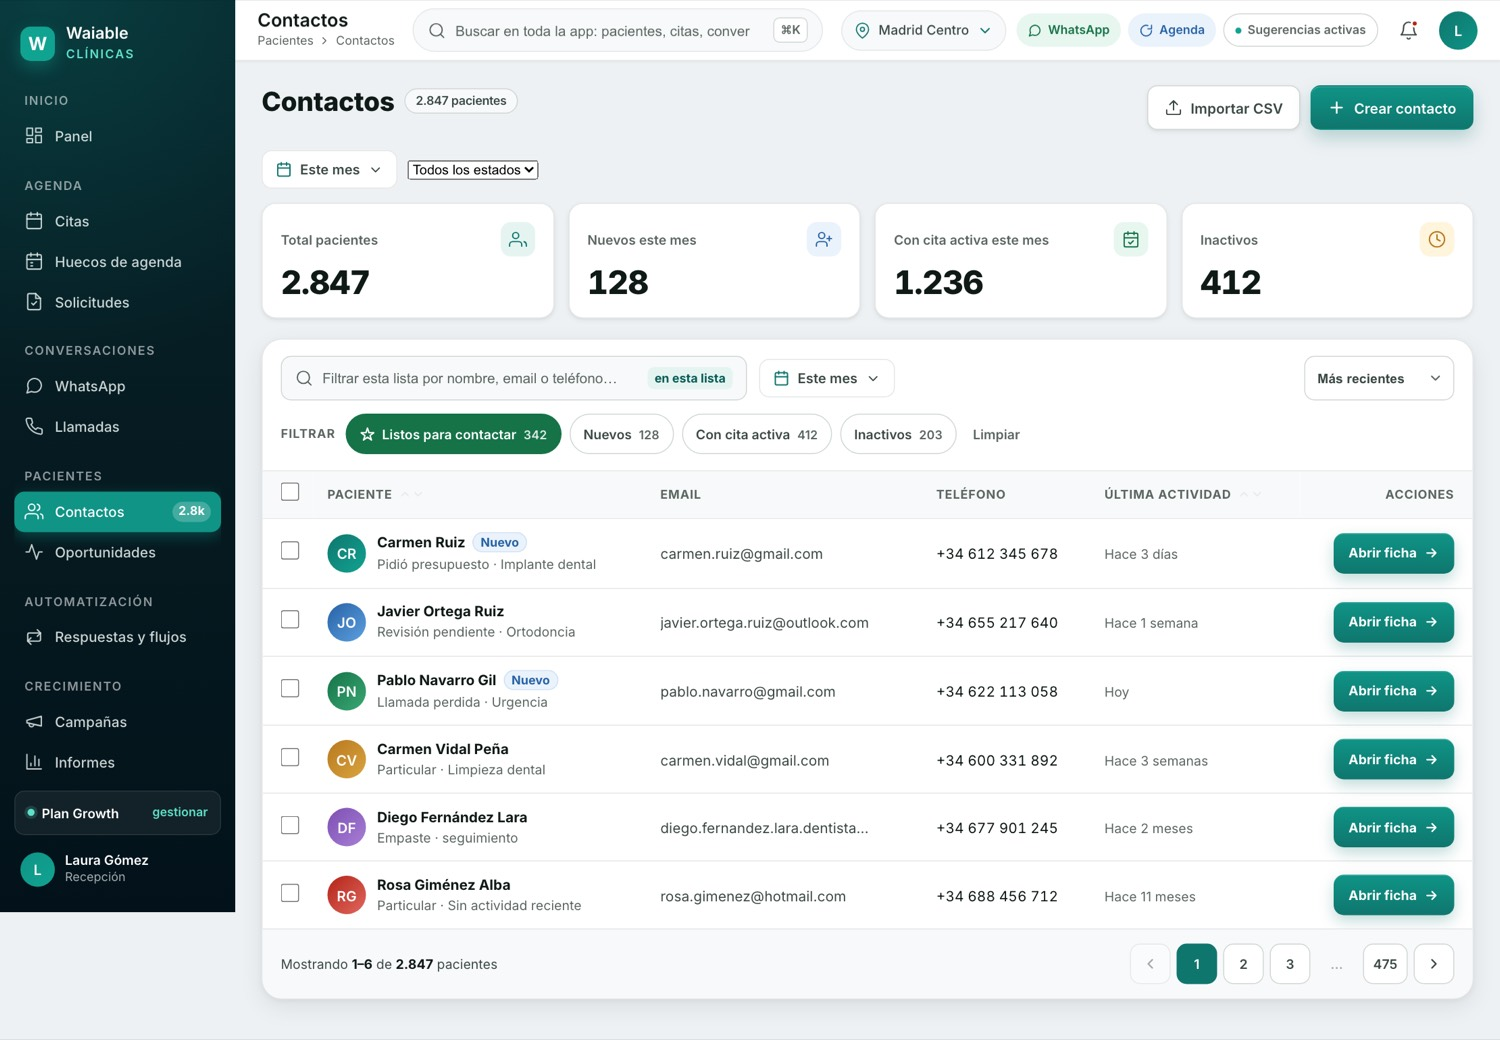
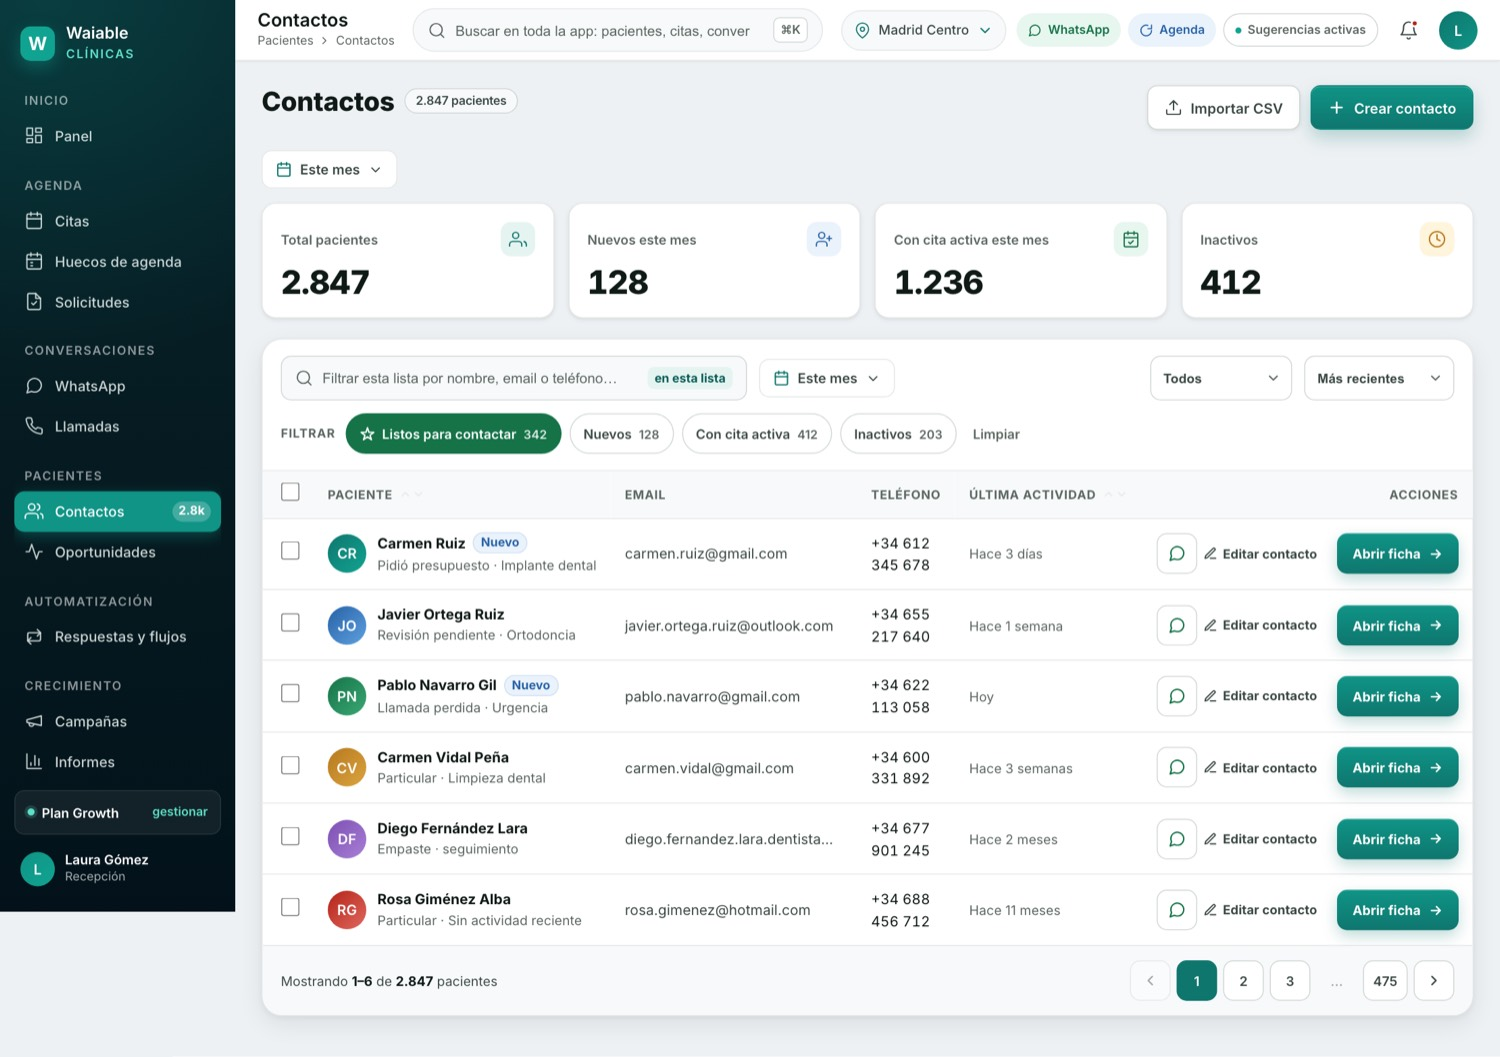
Contactos: mover el filtro de estado de la barra superior a la tabla (toolbar) con 'Todos' por defecto; en Acciones de cada fila anadir boton 'Escribir por WhatsApp' y 'Editar contacto' a la izquierda de 'Abrir ficha'

diff --git a/crm/contactos.html b/crm/contactos.html
@@ -468,6 +468,9 @@ tbody tr.sel{background:var(--primary-soft)}
 .r-edit svg{width:14px;height:14px}
 .r-edit:hover{color:var(--primary)}
 
+
+.r-btn.wa{color:var(--ok)}
+.r-btn.wa:hover{background:#e6f3ec;border-color:var(--ok);color:var(--ok)}
 </style>
 </head>
 <body>
@@ -651,7 +654,6 @@ tbody tr.sel{background:var(--primary-soft)}
       <!-- SUMMARY -->
       <section class="cfilters" aria-label="Filtros de pacientes">
         <div class="period-pick"><button class="period-btn" type="button" onclick="togglePeriod(this)" aria-label="Filtrar por fecha"><svg viewBox="0 0 24 24" fill="none" stroke="currentColor" stroke-width="2" stroke-linecap="round" stroke-linejoin="round"><rect x="3" y="4" width="18" height="18" rx="2"/><path d="M16 2v4M8 2v4M3 10h18"/></svg><span class="period-label">Este mes</span><svg viewBox="0 0 24 24" fill="none" stroke="currentColor" stroke-width="2" stroke-linecap="round" stroke-linejoin="round"><path d="m6 9 6 6 6-6"/></svg></button><div class="period-menu"><button type="button" data-p="Hoy">Hoy</button><button type="button" data-p="Esta semana">Esta semana</button><button type="button" data-p="Este mes" class="active">Este mes</button><button type="button" data-p="Mes pasado">Mes pasado</button><button type="button" data-p="Este trimestre">Este trimestre</button><button type="button" data-p="Este año">Este año</button><button type="button" data-p="Personalizado…">Personalizado…</button></div></div>
-        <select class="tb-filter f-estado" onchange="syncEstado(this)" aria-label="Filtrar por estado"><option value="">Todos los estados</option><option value="activo">Con cita activa</option><option value="nuevo">Nuevos</option><option value="inactivo">Inactivos</option></select>
       </section>
 
             <section class="summary" aria-label="Resumen de pacientes">
@@ -702,6 +704,16 @@ tbody tr.sel{background:var(--primary-soft)}
             <div class="period-pick"><button class="period-btn" type="button" onclick="togglePeriod(this)" aria-label="Filtrar por fecha"><svg viewBox="0 0 24 24" fill="none" stroke="currentColor" stroke-width="2" stroke-linecap="round" stroke-linejoin="round"><rect x="3" y="4" width="18" height="18" rx="2"/><path d="M16 2v4M8 2v4M3 10h18"/></svg><span class="period-label">Este mes</span><svg viewBox="0 0 24 24" fill="none" stroke="currentColor" stroke-width="2" stroke-linecap="round" stroke-linejoin="round"><path d="m6 9 6 6 6-6"/></svg></button><div class="period-menu"><button type="button" data-p="Hoy">Hoy</button><button type="button" data-p="Esta semana">Esta semana</button><button type="button" data-p="Este mes" class="active">Este mes</button><button type="button" data-p="Mes pasado">Mes pasado</button><button type="button" data-p="Este trimestre">Este trimestre</button><button type="button" data-p="Este año">Este año</button><button type="button" data-p="Personalizado…">Personalizado…</button></div></div>
         <div class="tb-spacer"></div>
 
+            <div class="select-wrap">
+              <label for="estadoSel" class="sr-only">Filtrar por estado</label>
+              <select id="estadoSel" class="f-estado" onchange="syncEstado(this)">
+                <option value="" selected>Todos</option>
+                <option value="activo">Con cita activa</option>
+                <option value="nuevo">Nuevos</option>
+                <option value="inactivo">Inactivos</option>
+              </select>
+              <svg viewBox="0 0 24 24" fill="none" stroke="currentColor" stroke-width="2.2" stroke-linecap="round" stroke-linejoin="round"><path d="m6 9 6 6 6-6"/></svg>
+            </div>
             <div class="select-wrap">
               <label for="sortSel" class="sr-only">Ordenar por</label>
               <select id="sortSel" onchange="onSortSelect(this.value)">
@@ -790,7 +802,7 @@ tbody tr.sel{background:var(--primary-soft)}
                 <td><span class="cell-phone tnum">+34 612 345 678</span></td>
                 <td><span class="cell-mut">Hace 3 días</span></td>
                 <td class="col-act">
-                  <div class="row-act"><a class="r-open" href="ficha-contacto.html" onclick="event.stopPropagation()">Abrir ficha<svg viewBox="0 0 24 24" fill="none" stroke="currentColor" stroke-width="2.4" stroke-linecap="round" stroke-linejoin="round"><path d="M5 12h14M13 6l6 6-6 6"/></svg></a>
+                  <div class="row-act"><button class="r-btn wa" type="button" aria-label="Escribir por WhatsApp" onclick="event.stopPropagation();toast('Abriendo WhatsApp…')"><svg viewBox="0 0 24 24" fill="none" stroke="currentColor" stroke-width="1.9" stroke-linecap="round" stroke-linejoin="round"><path d="M21 11.5a8.38 8.38 0 0 1-.9 3.8 8.5 8.5 0 0 1-7.6 4.7 8.38 8.38 0 0 1-3.8-.9L3 21l1.9-5.7a8.38 8.38 0 0 1-.9-3.8 8.5 8.5 0 0 1 4.7-7.6 8.38 8.38 0 0 1 3.8-.9h.5a8.48 8.48 0 0 1 8 8v.5z"/></svg></button><a class="r-edit" href="ficha-contacto.html" onclick="event.stopPropagation()"><svg viewBox="0 0 24 24" fill="none" stroke="currentColor" stroke-width="2.2" stroke-linecap="round" stroke-linejoin="round"><path d="M12 20h9"/><path d="M16.5 3.5a2.12 2.12 0 0 1 3 3L7 19l-4 1 1-4z"/></svg>Editar contacto</a><a class="r-open" href="ficha-contacto.html" onclick="event.stopPropagation()">Abrir ficha<svg viewBox="0 0 24 24" fill="none" stroke="currentColor" stroke-width="2.4" stroke-linecap="round" stroke-linejoin="round"><path d="M5 12h14M13 6l6 6-6 6"/></svg></a>
                   </div>
                 </td>
               </tr>
@@ -811,7 +823,7 @@ tbody tr.sel{background:var(--primary-soft)}
                 <td><span class="cell-phone tnum">+34 655 217 640</span></td>
                 <td><span class="cell-mut">Hace 1 semana</span></td>
                 <td class="col-act">
-                  <div class="row-act"><a class="r-open" href="ficha-contacto.html" onclick="event.stopPropagation()">Abrir ficha<svg viewBox="0 0 24 24" fill="none" stroke="currentColor" stroke-width="2.4" stroke-linecap="round" stroke-linejoin="round"><path d="M5 12h14M13 6l6 6-6 6"/></svg></a>
+                  <div class="row-act"><button class="r-btn wa" type="button" aria-label="Escribir por WhatsApp" onclick="event.stopPropagation();toast('Abriendo WhatsApp…')"><svg viewBox="0 0 24 24" fill="none" stroke="currentColor" stroke-width="1.9" stroke-linecap="round" stroke-linejoin="round"><path d="M21 11.5a8.38 8.38 0 0 1-.9 3.8 8.5 8.5 0 0 1-7.6 4.7 8.38 8.38 0 0 1-3.8-.9L3 21l1.9-5.7a8.38 8.38 0 0 1-.9-3.8 8.5 8.5 0 0 1 4.7-7.6 8.38 8.38 0 0 1 3.8-.9h.5a8.48 8.48 0 0 1 8 8v.5z"/></svg></button><a class="r-edit" href="ficha-contacto.html" onclick="event.stopPropagation()"><svg viewBox="0 0 24 24" fill="none" stroke="currentColor" stroke-width="2.2" stroke-linecap="round" stroke-linejoin="round"><path d="M12 20h9"/><path d="M16.5 3.5a2.12 2.12 0 0 1 3 3L7 19l-4 1 1-4z"/></svg>Editar contacto</a><a class="r-open" href="ficha-contacto.html" onclick="event.stopPropagation()">Abrir ficha<svg viewBox="0 0 24 24" fill="none" stroke="currentColor" stroke-width="2.4" stroke-linecap="round" stroke-linejoin="round"><path d="M5 12h14M13 6l6 6-6 6"/></svg></a>
                   </div>
                 </td>
               </tr>
@@ -832,7 +844,7 @@ tbody tr.sel{background:var(--primary-soft)}
                 <td><span class="cell-phone tnum">+34 622 113 058</span></td>
                 <td><span class="cell-mut">Hoy</span></td>
                 <td class="col-act">
-                  <div class="row-act"><a class="r-open" href="ficha-contacto.html" onclick="event.stopPropagation()">Abrir ficha<svg viewBox="0 0 24 24" fill="none" stroke="currentColor" stroke-width="2.4" stroke-linecap="round" stroke-linejoin="round"><path d="M5 12h14M13 6l6 6-6 6"/></svg></a>
+                  <div class="row-act"><button class="r-btn wa" type="button" aria-label="Escribir por WhatsApp" onclick="event.stopPropagation();toast('Abriendo WhatsApp…')"><svg viewBox="0 0 24 24" fill="none" stroke="currentColor" stroke-width="1.9" stroke-linecap="round" stroke-linejoin="round"><path d="M21 11.5a8.38 8.38 0 0 1-.9 3.8 8.5 8.5 0 0 1-7.6 4.7 8.38 8.38 0 0 1-3.8-.9L3 21l1.9-5.7a8.38 8.38 0 0 1-.9-3.8 8.5 8.5 0 0 1 4.7-7.6 8.38 8.38 0 0 1 3.8-.9h.5a8.48 8.48 0 0 1 8 8v.5z"/></svg></button><a class="r-edit" href="ficha-contacto.html" onclick="event.stopPropagation()"><svg viewBox="0 0 24 24" fill="none" stroke="currentColor" stroke-width="2.2" stroke-linecap="round" stroke-linejoin="round"><path d="M12 20h9"/><path d="M16.5 3.5a2.12 2.12 0 0 1 3 3L7 19l-4 1 1-4z"/></svg>Editar contacto</a><a class="r-open" href="ficha-contacto.html" onclick="event.stopPropagation()">Abrir ficha<svg viewBox="0 0 24 24" fill="none" stroke="currentColor" stroke-width="2.4" stroke-linecap="round" stroke-linejoin="round"><path d="M5 12h14M13 6l6 6-6 6"/></svg></a>
                   </div>
                 </td>
               </tr>
@@ -853,7 +865,7 @@ tbody tr.sel{background:var(--primary-soft)}
                 <td><span class="cell-phone tnum">+34 600 331 892</span></td>
                 <td><span class="cell-mut">Hace 3 semanas</span></td>
                 <td class="col-act">
-                  <div class="row-act"><a class="r-open" href="ficha-contacto.html" onclick="event.stopPropagation()">Abrir ficha<svg viewBox="0 0 24 24" fill="none" stroke="currentColor" stroke-width="2.4" stroke-linecap="round" stroke-linejoin="round"><path d="M5 12h14M13 6l6 6-6 6"/></svg></a>
+                  <div class="row-act"><button class="r-btn wa" type="button" aria-label="Escribir por WhatsApp" onclick="event.stopPropagation();toast('Abriendo WhatsApp…')"><svg viewBox="0 0 24 24" fill="none" stroke="currentColor" stroke-width="1.9" stroke-linecap="round" stroke-linejoin="round"><path d="M21 11.5a8.38 8.38 0 0 1-.9 3.8 8.5 8.5 0 0 1-7.6 4.7 8.38 8.38 0 0 1-3.8-.9L3 21l1.9-5.7a8.38 8.38 0 0 1-.9-3.8 8.5 8.5 0 0 1 4.7-7.6 8.38 8.38 0 0 1 3.8-.9h.5a8.48 8.48 0 0 1 8 8v.5z"/></svg></button><a class="r-edit" href="ficha-contacto.html" onclick="event.stopPropagation()"><svg viewBox="0 0 24 24" fill="none" stroke="currentColor" stroke-width="2.2" stroke-linecap="round" stroke-linejoin="round"><path d="M12 20h9"/><path d="M16.5 3.5a2.12 2.12 0 0 1 3 3L7 19l-4 1 1-4z"/></svg>Editar contacto</a><a class="r-open" href="ficha-contacto.html" onclick="event.stopPropagation()">Abrir ficha<svg viewBox="0 0 24 24" fill="none" stroke="currentColor" stroke-width="2.4" stroke-linecap="round" stroke-linejoin="round"><path d="M5 12h14M13 6l6 6-6 6"/></svg></a>
                   </div>
                 </td>
               </tr>
@@ -874,7 +886,7 @@ tbody tr.sel{background:var(--primary-soft)}
                 <td><span class="cell-phone tnum">+34 677 901 245</span></td>
                 <td><span class="cell-mut">Hace 2 meses</span></td>
                 <td class="col-act">
-                  <div class="row-act"><a class="r-open" href="ficha-contacto.html" onclick="event.stopPropagation()">Abrir ficha<svg viewBox="0 0 24 24" fill="none" stroke="currentColor" stroke-width="2.4" stroke-linecap="round" stroke-linejoin="round"><path d="M5 12h14M13 6l6 6-6 6"/></svg></a>
+                  <div class="row-act"><button class="r-btn wa" type="button" aria-label="Escribir por WhatsApp" onclick="event.stopPropagation();toast('Abriendo WhatsApp…')"><svg viewBox="0 0 24 24" fill="none" stroke="currentColor" stroke-width="1.9" stroke-linecap="round" stroke-linejoin="round"><path d="M21 11.5a8.38 8.38 0 0 1-.9 3.8 8.5 8.5 0 0 1-7.6 4.7 8.38 8.38 0 0 1-3.8-.9L3 21l1.9-5.7a8.38 8.38 0 0 1-.9-3.8 8.5 8.5 0 0 1 4.7-7.6 8.38 8.38 0 0 1 3.8-.9h.5a8.48 8.48 0 0 1 8 8v.5z"/></svg></button><a class="r-edit" href="ficha-contacto.html" onclick="event.stopPropagation()"><svg viewBox="0 0 24 24" fill="none" stroke="currentColor" stroke-width="2.2" stroke-linecap="round" stroke-linejoin="round"><path d="M12 20h9"/><path d="M16.5 3.5a2.12 2.12 0 0 1 3 3L7 19l-4 1 1-4z"/></svg>Editar contacto</a><a class="r-open" href="ficha-contacto.html" onclick="event.stopPropagation()">Abrir ficha<svg viewBox="0 0 24 24" fill="none" stroke="currentColor" stroke-width="2.4" stroke-linecap="round" stroke-linejoin="round"><path d="M5 12h14M13 6l6 6-6 6"/></svg></a>
                   </div>
                 </td>
               </tr>
@@ -895,7 +907,7 @@ tbody tr.sel{background:var(--primary-soft)}
                 <td><span class="cell-phone tnum">+34 688 456 712</span></td>
                 <td><span class="cell-mut">Hace 11 meses</span></td>
                 <td class="col-act">
-                  <div class="row-act"><a class="r-open" href="ficha-contacto.html" onclick="event.stopPropagation()">Abrir ficha<svg viewBox="0 0 24 24" fill="none" stroke="currentColor" stroke-width="2.4" stroke-linecap="round" stroke-linejoin="round"><path d="M5 12h14M13 6l6 6-6 6"/></svg></a>
+                  <div class="row-act"><button class="r-btn wa" type="button" aria-label="Escribir por WhatsApp" onclick="event.stopPropagation();toast('Abriendo WhatsApp…')"><svg viewBox="0 0 24 24" fill="none" stroke="currentColor" stroke-width="1.9" stroke-linecap="round" stroke-linejoin="round"><path d="M21 11.5a8.38 8.38 0 0 1-.9 3.8 8.5 8.5 0 0 1-7.6 4.7 8.38 8.38 0 0 1-3.8-.9L3 21l1.9-5.7a8.38 8.38 0 0 1-.9-3.8 8.5 8.5 0 0 1 4.7-7.6 8.38 8.38 0 0 1 3.8-.9h.5a8.48 8.48 0 0 1 8 8v.5z"/></svg></button><a class="r-edit" href="ficha-contacto.html" onclick="event.stopPropagation()"><svg viewBox="0 0 24 24" fill="none" stroke="currentColor" stroke-width="2.2" stroke-linecap="round" stroke-linejoin="round"><path d="M12 20h9"/><path d="M16.5 3.5a2.12 2.12 0 0 1 3 3L7 19l-4 1 1-4z"/></svg>Editar contacto</a><a class="r-open" href="ficha-contacto.html" onclick="event.stopPropagation()">Abrir ficha<svg viewBox="0 0 24 24" fill="none" stroke="currentColor" stroke-width="2.4" stroke-linecap="round" stroke-linejoin="round"><path d="M5 12h14M13 6l6 6-6 6"/></svg></a>
                   </div>
                 </td>
               </tr>
